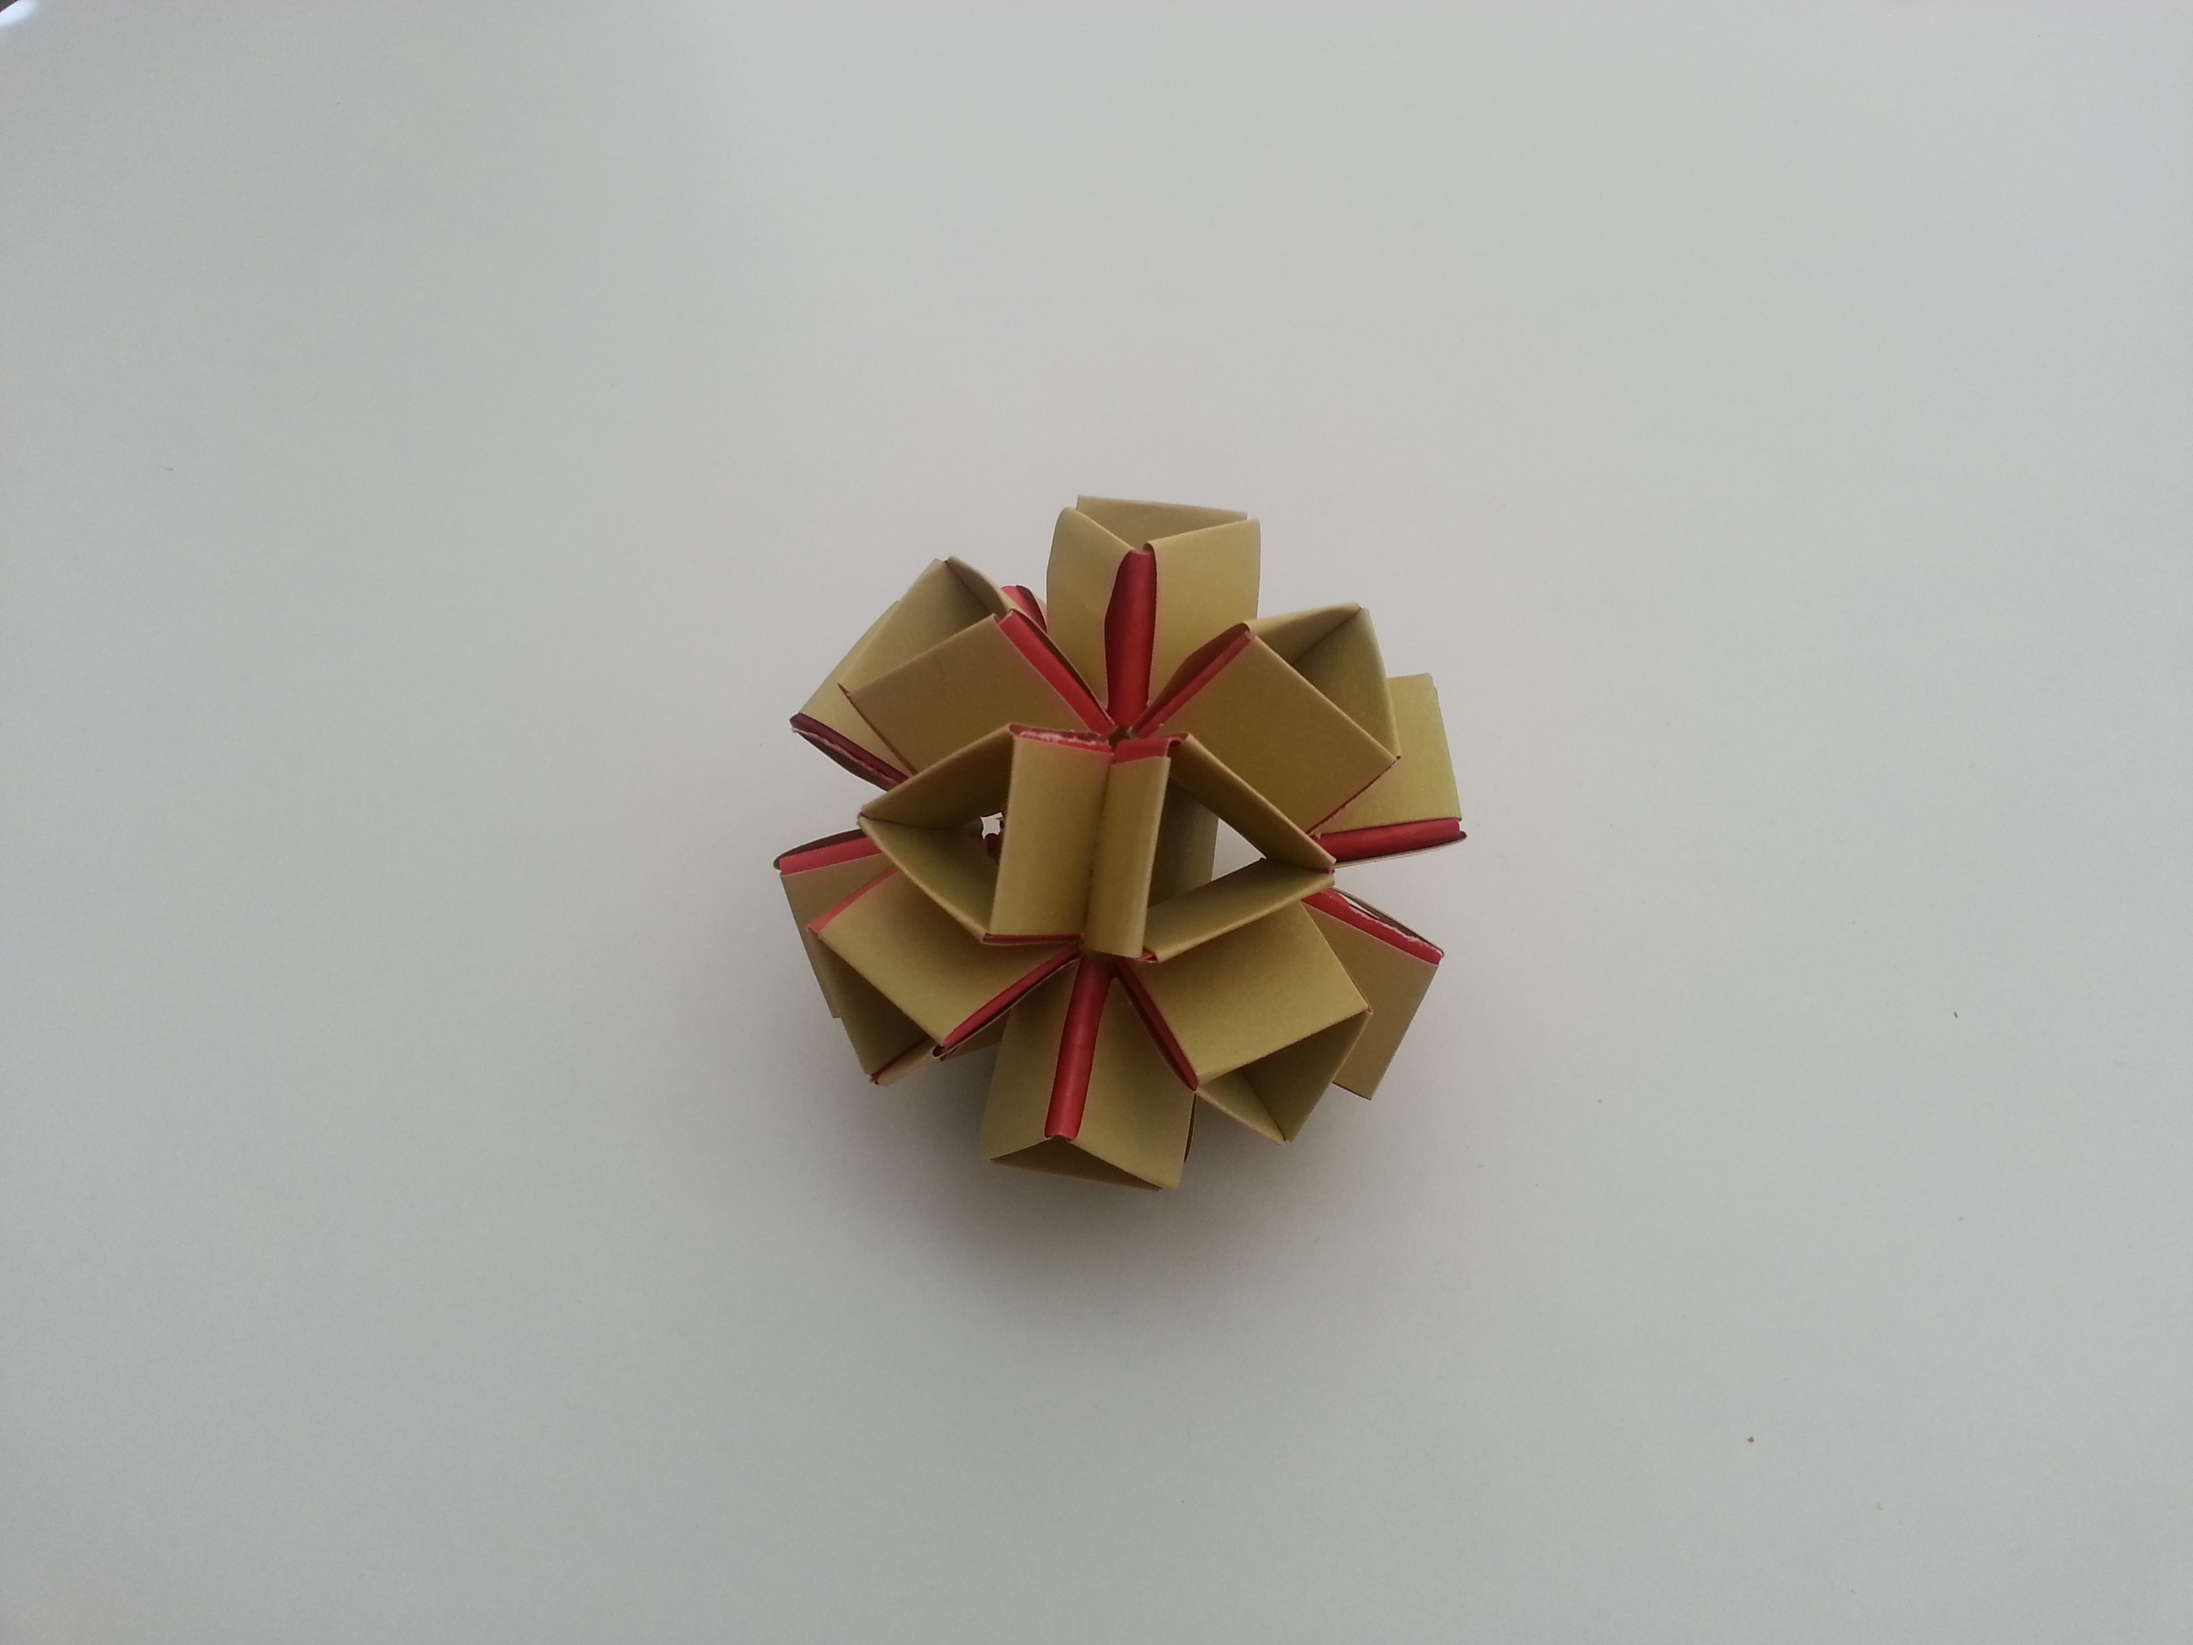
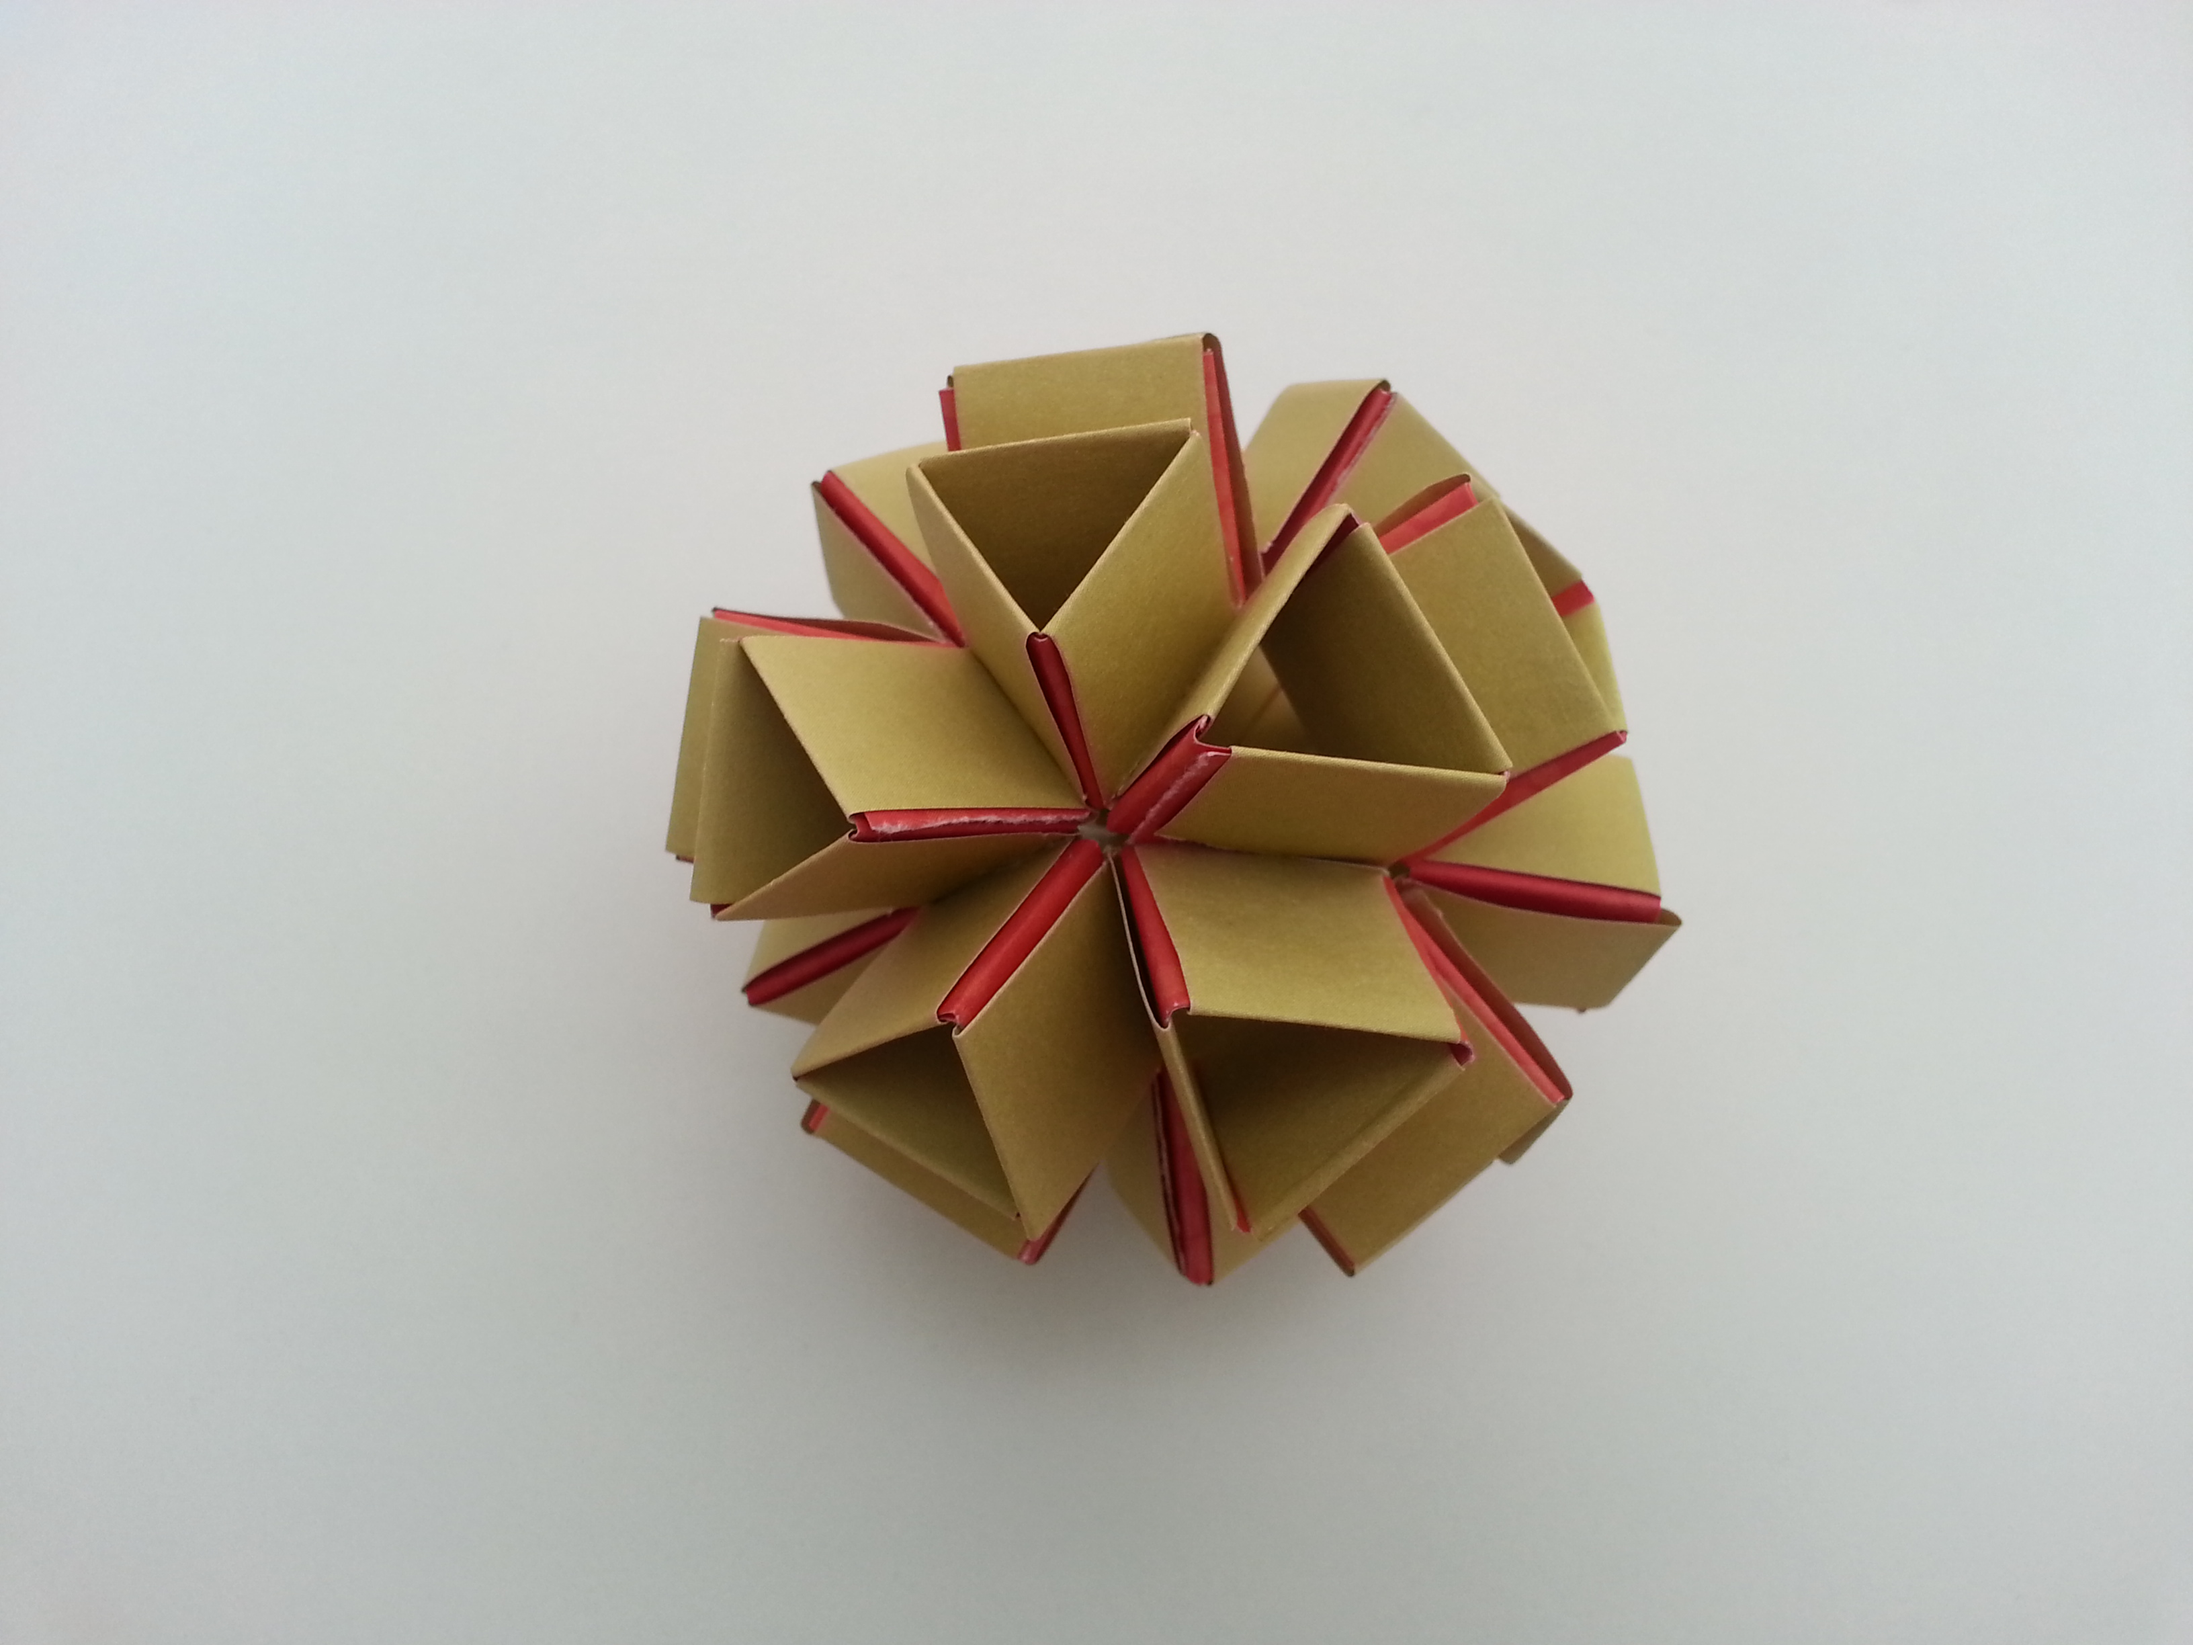
Add Rhombic Triacontahedron

diff --git a/origami/index.html b/origami/index.html
@@ -147,6 +147,13 @@
 <img src="/images/octahedron.jpg" title="Octahedron" alt="Octahedron" />
 </div>
 
+<div>
+<h4>Rhombic Triacontahedron (credit: Nagamani Vellanki (my mom))</h4>
+<img src="/images/rhombic_triacontahedron.jpg" title="Rhombic Triacontahedron" alt="Rhombic Triacontahedron" />
+<br />
+<img src="/images/rhombic_triacontahedron_1.jpg" title="Rhombic Triacontahedron" alt="Rhombic Triacontahedron" />
+</div>
+
     </div><!-- /.article-wrap -->
     
   </article>
